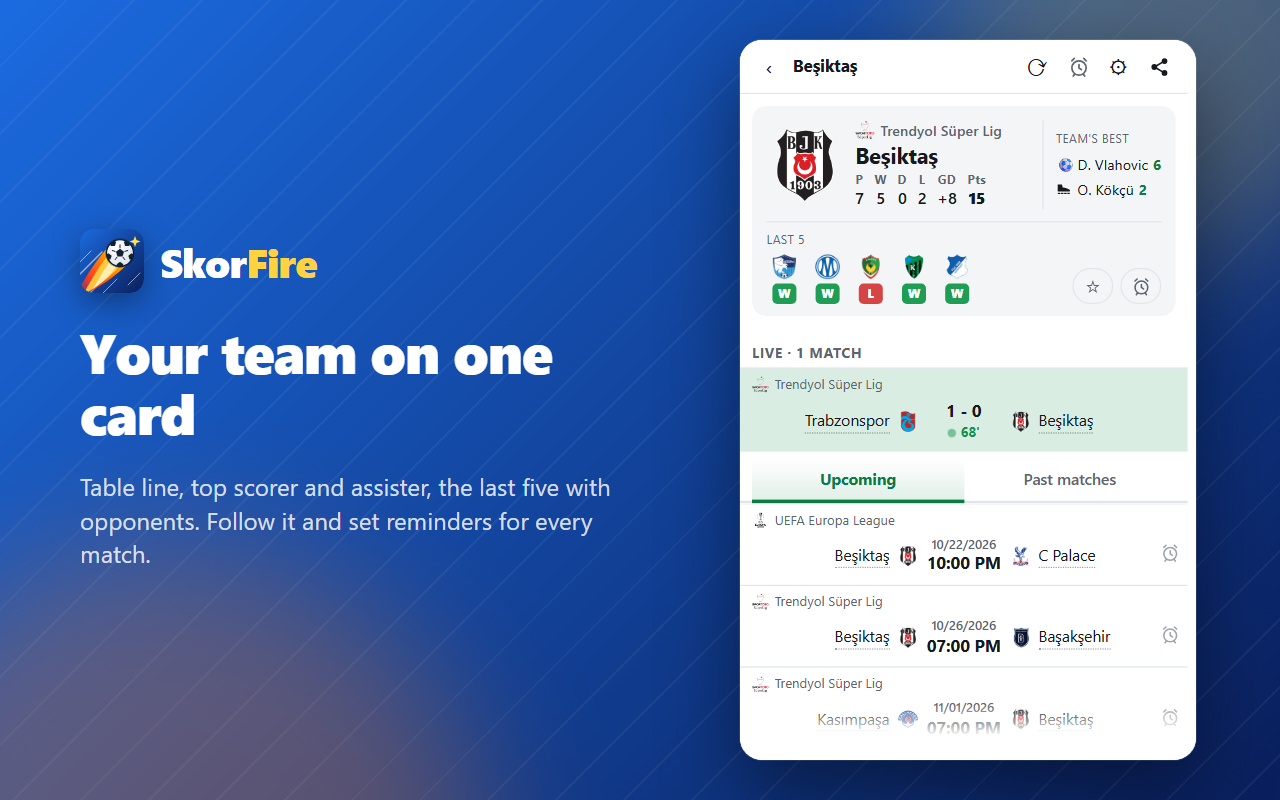
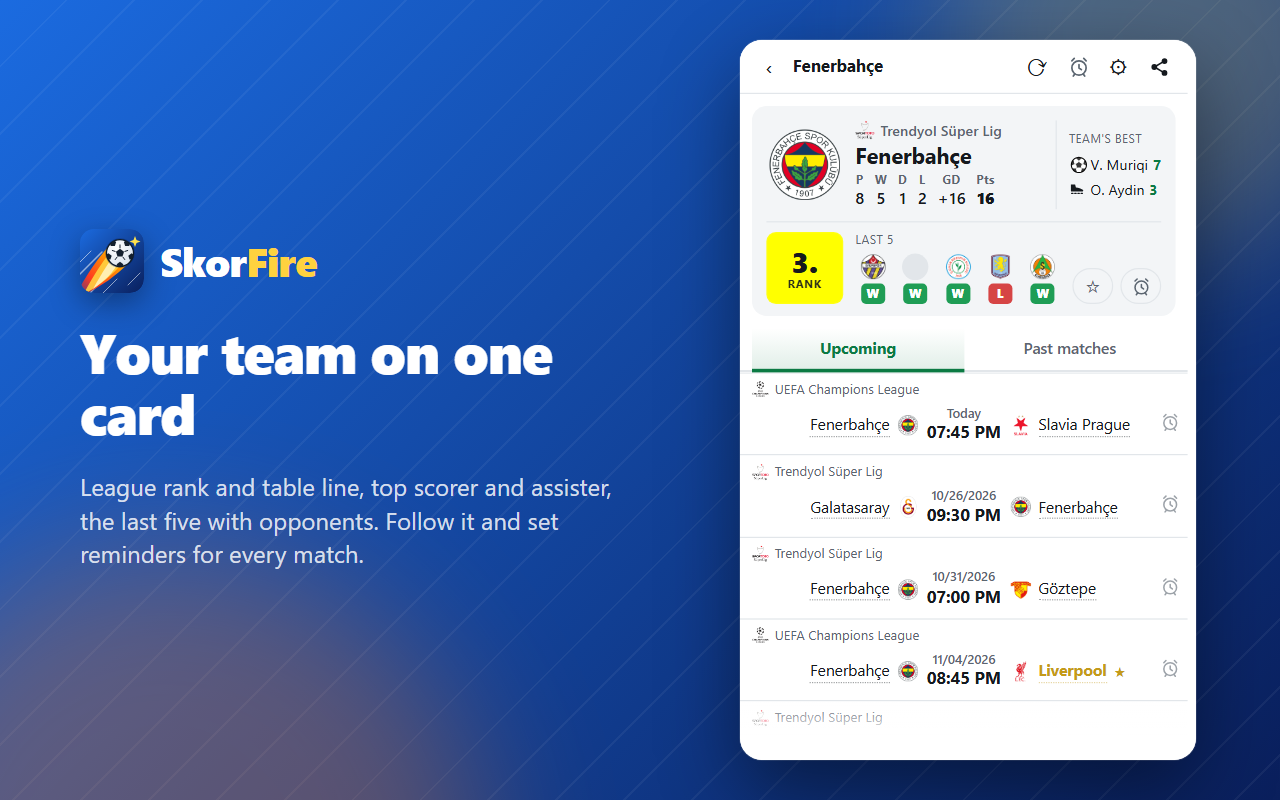
SkorFire 2.9.0: league rank on the team card

diff --git a/README.md b/README.md
@@ -14,9 +14,13 @@ Live scores, today's fixtures, league tables and goal notifications from the bro
 | ![Live stats](images/screenshot-6-en.png) | ![Pre-match](images/screenshot-2-en.png) |
 | ![Table](images/screenshot-3-en.png) | ![Notifications](images/screenshot-5-en.png) |
 
-## New in 2.8.1
+## New in 2.9.0
 
 Rolling out through store review (October 2026).
+
+- **League rank on the team card:** the team's position sits under its logo in the team's own colour, next to the last 5 results; tap it to open the table.
+
+## 2.8.1
 
 - **Team card:** league and table line (P W D L GD Pts), the team's top scorer and assister, last 5 results with opponent logos.
 - **Share menu:** WhatsApp, X, Facebook, Telegram, Reddit, LinkedIn, email or copy link.
